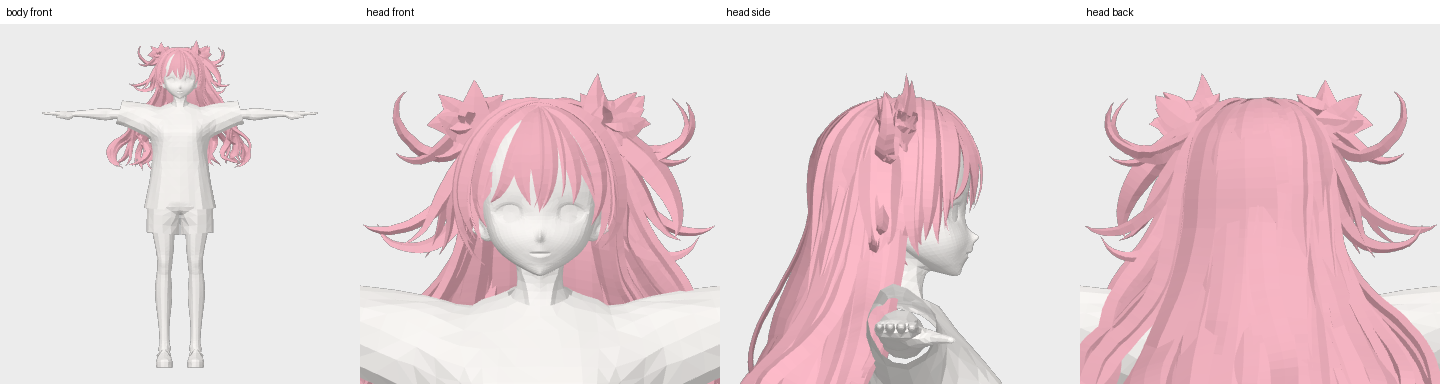
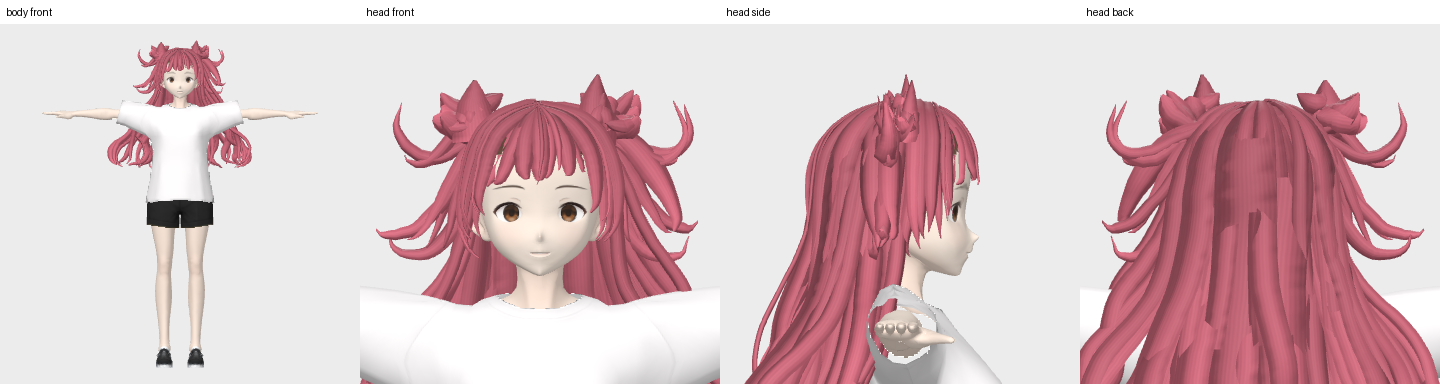
Document v0.5 quality checks and update complete examples

diff --git a/RELEASE_NOTES.md b/RELEASE_NOTES.md
@@ -1,29 +1,26 @@
-v0.4.0 将 AI 模型加载改为 ComfyUI 常见的独立文件下拉框，工作流仍为三个节点。
+v0.5.0 完成导出网格、UV 和基础发丝材质优化，仍保持三个节点和六个独立模型文件选择。
 
-“模型加载”节点分别列出：
-
-1. 发片生成模型
-2. 发片 VAE
-3. 弹簧骨骼模型
-4. SAM 3 分割模型
-5. DINOv3 图像编码器
-6. BiRefNet 抠图模型
-
-每项显示实际文件名，并真正加载所选文件。支持独立模型目录、重命名权重和 `extra_model_paths.yaml` 配置。配套统计文件、标准头框、角色及自定义头模的目录放在高级选项“配套资源目录”中。
-
-**升级说明：** 原来的 `bundle: auto` 加载输入已替换。更新插件并重启、刷新 ComfyUI 后，请导入新版三节点模板，或重新添加“模型加载”节点并选择文件。已有模型和头模资源可继续使用，无需重新下载权重。
+- 清理发束内部封口，补齐 UV 接缝、法线和切线；拆分顶点复制原有骨骼权重。
+- 提供共享图集和独立 UV，支持 1K / 2K / 4K。
+- 提供体积发束、透明发片、纯色诊断和 UV 检查预设。
+- 输出发色/Alpha、法线、粗糙度、独立 Alpha、UV 布局和材质说明，并提供 glTF 金属粗糙度、Unity 金属光滑度两种打包图。
+- GLB 与 VRM 嵌入相同核心贴图，静态和动画预览读取这些材质。修复预览中的 Alpha 裁剪及透明覆盖问题。
+- 旧 v0.4 工作流可使用默认设置，刷新或导入新版模板可看到高级选项。
 
 ### 验证
 
-- 八项模型选择检查通过，覆盖六项文件解析、重命名、外部目录、路径限制、缓存失效及实际加载参数传递。
-- 已在 ComfyUI 0.43.0、RTX 3090、xFormers 上完成完整流程，约 32 秒生成 GLB、VRM 和 3 秒动画。
-- 同一输入的采样数据与 v0.3.0 参考结果完全一致，已有自定义头模正常使用。
-- 三份 GUI/API 模板及五张内嵌工作流的 PNG 均确认包含明确的模型文件选择。
+- 10 项 CPU 导出检查和 GPU Alpha 模式检查通过。
+- 本机新参考图完整流程约 40 秒完成；相同曲线的三角形从 29,356 减至 23,730，UV 零面积三角形从 5,896 降至 0。
+- 原项目公开示例约 36 秒完成，独立 UV、GLB、VRM 和 90 帧动画均通过检查。
+- 完整示例中的 PNG 可恢复三节点工作流，ZIP 内的模型、贴图及清单已检查齐全。
 
-### 下载与文档
+### 下载
 
-- 最新插件：本页附件 `ComfyUI-HairDeck-0.4.0.zip`，内含中英文说明、安装工具及新版三节点模板。
-- [完整资源与模型包（夸克网盘）](https://pan.quark.cn/s/cfe2401c29aa)。
-- [中文说明](https://github.com/FengLairh/ComfyUI-HairDeck#readme) · [English README](https://github.com/FengLairh/ComfyUI-HairDeck/blob/main/README.en.md) · [官方模型地址](https://github.com/FengLairh/ComfyUI-HairDeck#official-models) · [验证范围](https://github.com/FengLairh/ComfyUI-HairDeck/blob/main/VALIDATION.md)
+- `ComfyUI-HairDeck-0.5.0.zip`：插件、安装工具、中英文说明和工作流模板。
+- `HairDeck-UV-Material-Example-v0.5.0.zip`：使用上游公开输入和角色生成的完整示例，包含模型、贴图、动画和工作流。
+- [完整资源与模型包（夸克网盘）](https://pan.quark.cn/s/cfe2401c29aa)。既有权重可以继续使用。
+- [中文说明](https://github.com/FengLairh/ComfyUI-HairDeck#readme) · [English README](https://github.com/FengLairh/ComfyUI-HairDeck/blob/main/README.en.md) · [验证范围](https://github.com/FengLairh/ComfyUI-HairDeck/blob/main/VALIDATION.md)
 
-插件包不含模型权重、用户 FBX、转换后的私有头模或 Blender。
+材质贴图采用程序化生成并提取参考图基础发色。VRM 的 MToon 与 PBR 光照存在差异；目标 Unity/URP 工程中的材质、远距透明效果及性能仍需验收。头皮贴合和模型训练不属于本次改动。
+
+代码包及公开示例不包含用户提供的私人图片、头模或游戏参考资源。

diff --git a/VALIDATION.md b/VALIDATION.md
@@ -1,4 +1,16 @@
-# Validation — 0.4.0
+# Validation — 0.5.0
+
+## v0.5.0: export surfaces and appearance
+
+- Ten CPU export tests pass: boundary-only caps, retained source positions, float32 UV validity, atlas padding/non-overlap, normals/tangent frames including rounded-normal input, original skin-weight copying, flat/empty cards, embedded texture pixels and Unity packing.
+- A GPU preview test reproduced and fixed missing alpha-mask behavior; OPAQUE, MASK and BLEND now pass an overlapping-quad visibility/coverage check. Preview images use the file's UVs, normals, tangents and textures rather than recoloring meshes.
+- Both shared volume and unique ribbon offline exports passed VRM structural checks and 90-frame animation decoding. UV-split vertices matched the original geometric binding exactly; GLB/VRM core texture pixels matched byte for byte.
+- The new local silver-haired reference completed the full three-node workflow on ComfyUI 0.43.0 / PyTorch 2.9.1+cu130 / RTX 3090 / xFormers in 40.16 seconds: 88 cards, 9 generated chains, 9 spring groups. From the same generated curves, triangle count fell from 29,356 to 23,730, and zero-area UV triangles from 5,896 to 0. The final surface has 15,659 vertices because UV/normal seams require splits.
+- The public upstream example completed in 36.17 seconds with unique UVs: 124 cards, 19 chains and 18 spring groups. Triangles fell from 42,010 to 33,884, with zero-area UV triangles reduced from 8,546 to 0.
+- Final GLB and VRM files were checked for finite unit normals/tangents, orthogonality, non-degenerate UVs, embedded matching textures and valid VRM skin/bone data. Seven 2K PNG maps/diagnostics were checked, including glTF G-roughness/B-metallic and Unity R-metallic/A-smoothness packing. Five PNG previews retain the three-node workflow, and videos decode to 90 frames over 3 seconds.
+- Old v0.4 save inputs ran with the new optional defaults in an isolated native instance. Ribbon and UV-check presets also ran through the actual ComfyUI queue.
+- The supplied game asset was analyzed locally to inform restrained detail and future geometry/Toon work; its meshes, textures and shader sources are not distributed with this plugin. Private head/image examples stay local. Public examples use the upstream input and avatar.
+- Preview uses a PBR renderer. VRM's MToon lighting differs; roughness is retained in the PBR fallback and standalone maps. Unity/URP appearance, mip-distance behavior and device performance are not yet validated in the target game project. Scalp fitting, candidate selection and model training remain later work.
 
 ## v0.4.0: explicit model files
 
